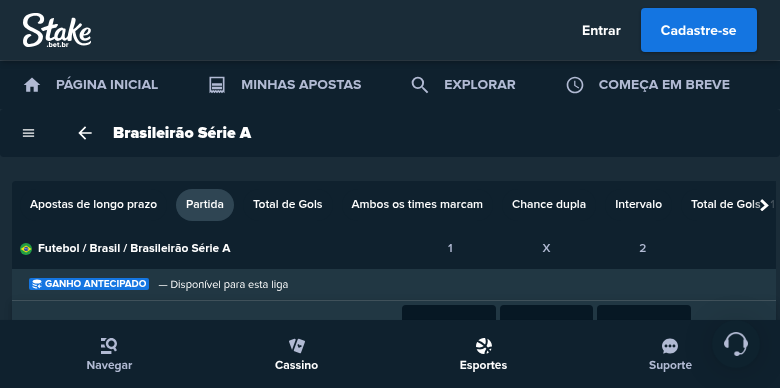
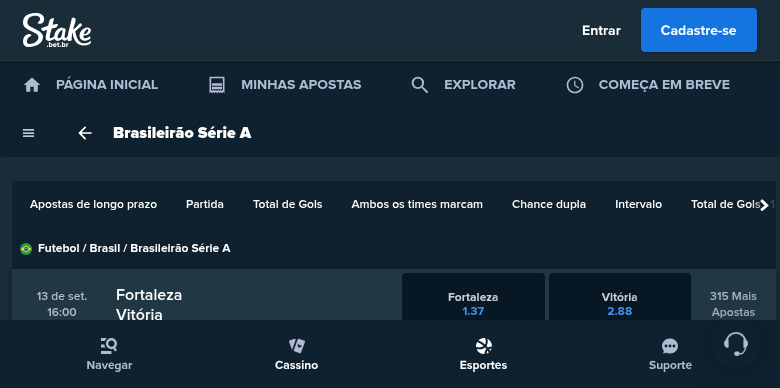
Add `empate_anula` and move previous outputs to `empate_conta`

diff --git a/scrape_games_draw.py b/scrape_games_draw.py
@@ -1,0 +1,107 @@
+from selenium import webdriver
+from selenium.webdriver.chrome.options import Options
+from selenium.webdriver.common.by import By
+from selenium.webdriver.support.ui import WebDriverWait
+from selenium.webdriver.support import expected_conditions as EC
+from datetime import datetime
+from pathlib import Path
+import csv, time 
+
+chrome_options = Options()
+chrome_options.add_argument("--incognito")
+chrome_options.add_argument('--ignore-certificate-errors')
+chrome_options.add_argument('--ignore-ssl-errors')
+chrome_options.add_argument("--no-sandbox");
+chrome_options.add_argument("--disable-dev-shm-usage")
+chrome_options.add_argument("--headless")
+chrome_options.add_argument('user-agent=Mozilla/5.0 (Windows NT 10.0; Win64; x64) AppleWebKit/537.36 (KHTML, like Gecko) Chrome/115.0.0.0 Safari/537.36')
+
+print("Iniciando o chrome...")
+driver = webdriver.Chrome(options=chrome_options)
+
+# Envolvendo todo o script em um try...finally, para garantir que sempre sairemos do driver
+try:
+    print("Fazendo scraping do Stake.bet...")
+
+    driver.get("https://stake.bet.br/esportes/futebol/brasil/brasileirao-serie-a?regionKey=BR")
+
+    wait = WebDriverWait(driver, 20)
+
+    # Aceitar cookies primeiro
+    try:
+        aceitar_cookies = wait.until(EC.element_to_be_clickable((By.CSS_SELECTOR, "#gdpr-snackbar-accept")))
+        aceitar_cookies.click()
+        print("Cookies aceitos.")
+    except Exception as e:
+        print("Botão de aceitar cookies não encontrado ou já aceito.", e)
+
+    time.sleep(2)
+
+    # Aceitar confirmação de maior de 18 anos
+    try:
+        accept_18 = wait.until(EC.element_to_be_clickable(
+            (By.CSS_SELECTOR, "body > div.fade.age-verification-modal.modal.show > div > div > div > button.btn.variant-action")
+        ))
+        accept_18.click()
+        print("Confirmação de 18 anos aceita.")
+    except Exception as e:
+        print(f"Botão de confirmação 18 anos não encontrado ou já aceito:\n{e}")
+
+    # Dá um scroll para garantir que os jogos sejam carregados
+    driver.execute_script("window.scrollTo(0, document.body.scrollHeight);")
+    time.sleep(3)
+
+    # Espera até os jogos aparecerem ou timeout
+    timeout = 30  # segundos
+    start_time = time.time()
+
+    while True:
+        linhas = driver.find_elements(By.CSS_SELECTOR, "li.KambiBC-sandwich-filter__event-list-item")
+        if len(linhas) > 0:
+            print(f"{len(linhas)} jogos encontrados.")
+            break
+        if time.time() - start_time > timeout:
+            print("Timeout esperando os jogos carregarem.")
+            break
+        time.sleep(1)
+
+    # Tira print para verificar o que está na tela
+    driver.save_screenshot("output/pagina_apos_modais.png")
+    print("Screenshot salva em output/pagina_apos_modais.png")
+
+    if len(linhas) == 0:
+        print("Nenhum jogo encontrado, saindo.")
+    else:
+        current_date = datetime.now().strftime("%Y-%m-%d")
+        open_mode = "x"
+        output_path = f"output/empate_conta/{current_date}-dados.csv"
+        if Path(output_path).exists():
+            open_mode = "w"
+        with open(output_path, open_mode, newline='', encoding='utf-8') as f:
+            writer = csv.writer(f)
+            writer.writerow(['time_casa', 'time_fora', 'dia_jogo', 'hora_jogo','mult_vitoria_time_1','mult_empate','mult_vitoria_time_2'])
+
+            for linha in linhas:
+                try:
+                    time_casa = linha.find_element(By.CSS_SELECTOR,
+                        'div.KambiBC-event-participants > div:nth-child(1) > div.KambiBC-event-participants__name-participant-name').text.strip()
+                    botoes = linha.find_elements(By.CSS_SELECTOR, 'div.KambiBC-bet-offer__outcomes button')
+                    odds = [x.text.strip() for x in botoes]
+                    print(f"Odds encontradas: {odds}")
+                    mult_vitoria_time_1 = odds[0]
+                    mult_empate = odds[1]
+                    mult_vitoria_time_2 = odds[2]
+
+                    time_fora = linha.find_element(By.CSS_SELECTOR,
+                        'div.KambiBC-event-participants > div:nth-child(2) > div.KambiBC-event-participants__name-participant-name').text.strip()
+
+                    dia_jogo = linha.find_element(By.CSS_SELECTOR, 'span.KambiBC-event-item__start-time--date').text.strip()
+                    hora_jogo = linha.find_element(By.CSS_SELECTOR, 'span.KambiBC-event-item__start-time--time').text.strip()
+
+                    writer.writerow([time_casa, time_fora, dia_jogo, hora_jogo, mult_vitoria_time_1, mult_empate, mult_vitoria_time_2])
+                except Exception as e:
+                    print(f"Erro ao extrair uma linha: {e}")
+
+        print(f"{len(linhas)} jogos salvos em {output_path}")
+finally:
+    driver.quit()

diff --git a/scrape_games_no_draw.py b/scrape_games_no_draw.py
@@ -5,7 +5,7 @@ from selenium.webdriver.support.ui import WebDriverWait
 from selenium.webdriver.support import expected_conditions as EC
 from datetime import datetime
 from pathlib import Path
-import csv, time 
+import csv, time, re
 
 chrome_options = Options()
 chrome_options.add_argument("--incognito")
@@ -39,21 +39,25 @@ try:
 
     # Aceitar confirmação de maior de 18 anos
     try:
-        aceitar_18 = wait.until(EC.element_to_be_clickable(
+        accept_18 = wait.until(EC.element_to_be_clickable(
             (By.CSS_SELECTOR, "body > div.fade.age-verification-modal.modal.show > div > div > div > button.btn.variant-action")
         ))
-        aceitar_18.click()
+        accept_18.click()
         print("Confirmação de 18 anos aceita.")
     except Exception as e:
         print(f"Botão de confirmação 18 anos não encontrado ou já aceito:\n{e}")
 
+    # Espera até os jogos aparecerem ou timeout
+    timeout = 30  # Segundos
+    start_time = time.time()
+
     # Dá um scroll para garantir que os jogos sejam carregados
+    print("Selecionando empate anula aposta...")
+    driver.execute_script('document.querySelectorAll("ul.KambiBC-filter-menu li div")[7].click();')
+    time.sleep(3)
+    print("Fazendo scroll da janela...")
     driver.execute_script("window.scrollTo(0, document.body.scrollHeight);")
     time.sleep(3)
-
-    # Espera até os jogos aparecerem ou timeout
-    timeout = 30  # segundos
-    start_time = time.time()
 
     while True:
         linhas = driver.find_elements(By.CSS_SELECTOR, "li.KambiBC-sandwich-filter__event-list-item")
@@ -74,12 +78,12 @@ try:
     else:
         current_date = datetime.now().strftime("%Y-%m-%d")
         open_mode = "x"
-        output_path = f"output/{current_date}-dados.csv"
+        output_path = f"output/empate_anula/{current_date}-dados.csv"
         if Path(output_path).exists():
             open_mode = "w"
         with open(output_path, open_mode, newline='', encoding='utf-8') as f:
             writer = csv.writer(f)
-            writer.writerow(['time_casa', 'time_fora', 'dia_jogo', 'hora_jogo','mult_vitoria_time_1','mult_empate','mult_vitoria_time_2'])
+            writer.writerow(['time_casa', 'time_fora', 'dia_jogo', 'hora_jogo','mult_vitoria_time_1','mult_vitoria_time_2'])
 
             for linha in linhas:
                 try:
@@ -88,9 +92,9 @@ try:
                     botoes = linha.find_elements(By.CSS_SELECTOR, 'div.KambiBC-bet-offer__outcomes button')
                     odds = [x.text.strip() for x in botoes]
                     print(f"Odds encontradas: {odds}")
-                    mult_vitoria_time_1 = odds[0]
-                    mult_empate = odds[1]
-                    mult_vitoria_time_2 = odds[2]
+                    regex_number = "\d+\.\d+"
+                    mult_vitoria_time_1 = float(re.search(regex_number, odds[0]).group(0))
+                    mult_vitoria_time_2 = float(re.search(regex_number, odds[1]).group(0))
 
                     time_fora = linha.find_element(By.CSS_SELECTOR,
                         'div.KambiBC-event-participants > div:nth-child(2) > div.KambiBC-event-participants__name-participant-name').text.strip()
@@ -98,15 +102,10 @@ try:
                     dia_jogo = linha.find_element(By.CSS_SELECTOR, 'span.KambiBC-event-item__start-time--date').text.strip()
                     hora_jogo = linha.find_element(By.CSS_SELECTOR, 'span.KambiBC-event-item__start-time--time').text.strip()
 
-                    writer.writerow([time_casa, time_fora, dia_jogo, hora_jogo, mult_vitoria_time_1, mult_empate, mult_vitoria_time_2])
+                    writer.writerow([time_casa, time_fora, dia_jogo, hora_jogo, mult_vitoria_time_1, mult_vitoria_time_2])
                 except Exception as e:
                     print(f"Erro ao extrair uma linha: {e}")
 
         print(f"{len(linhas)} jogos salvos em {output_path}")
 finally:
     driver.quit()
-
-
-##gdpr-snackbar-accept
-#gdpr-snackbar-accept
-#body > div.fade.age-verification-modal.modal.show > div > div > div > button.btn.variant-action
